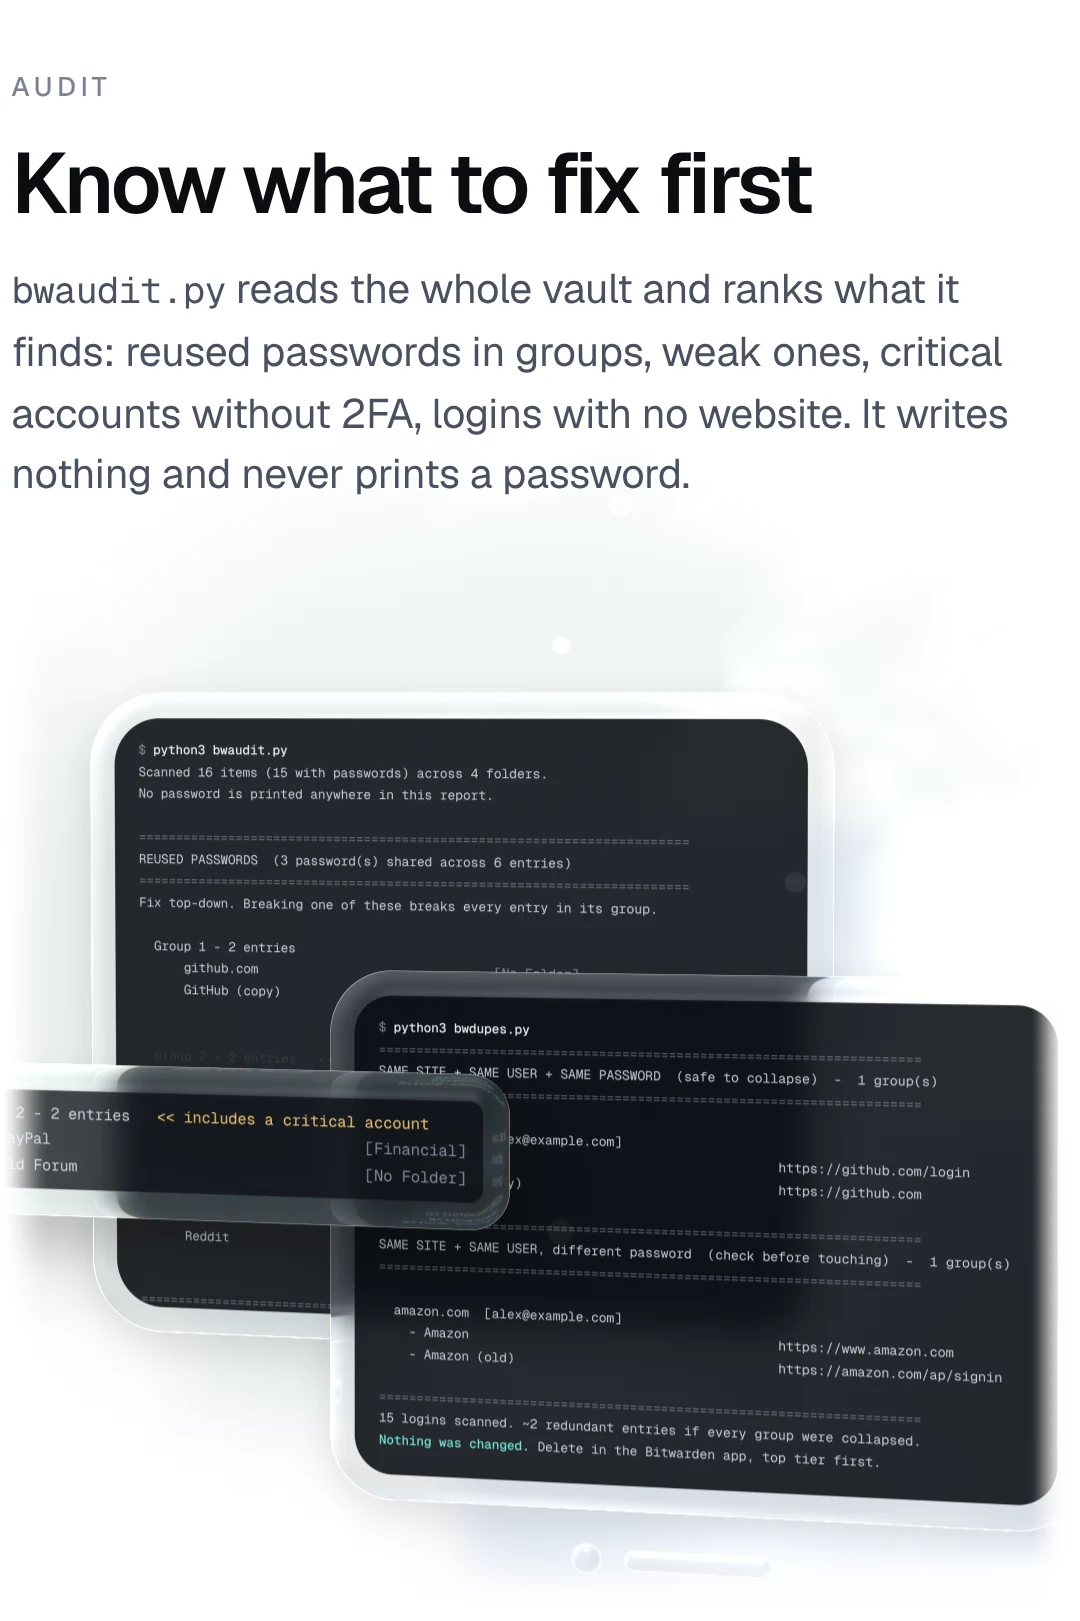
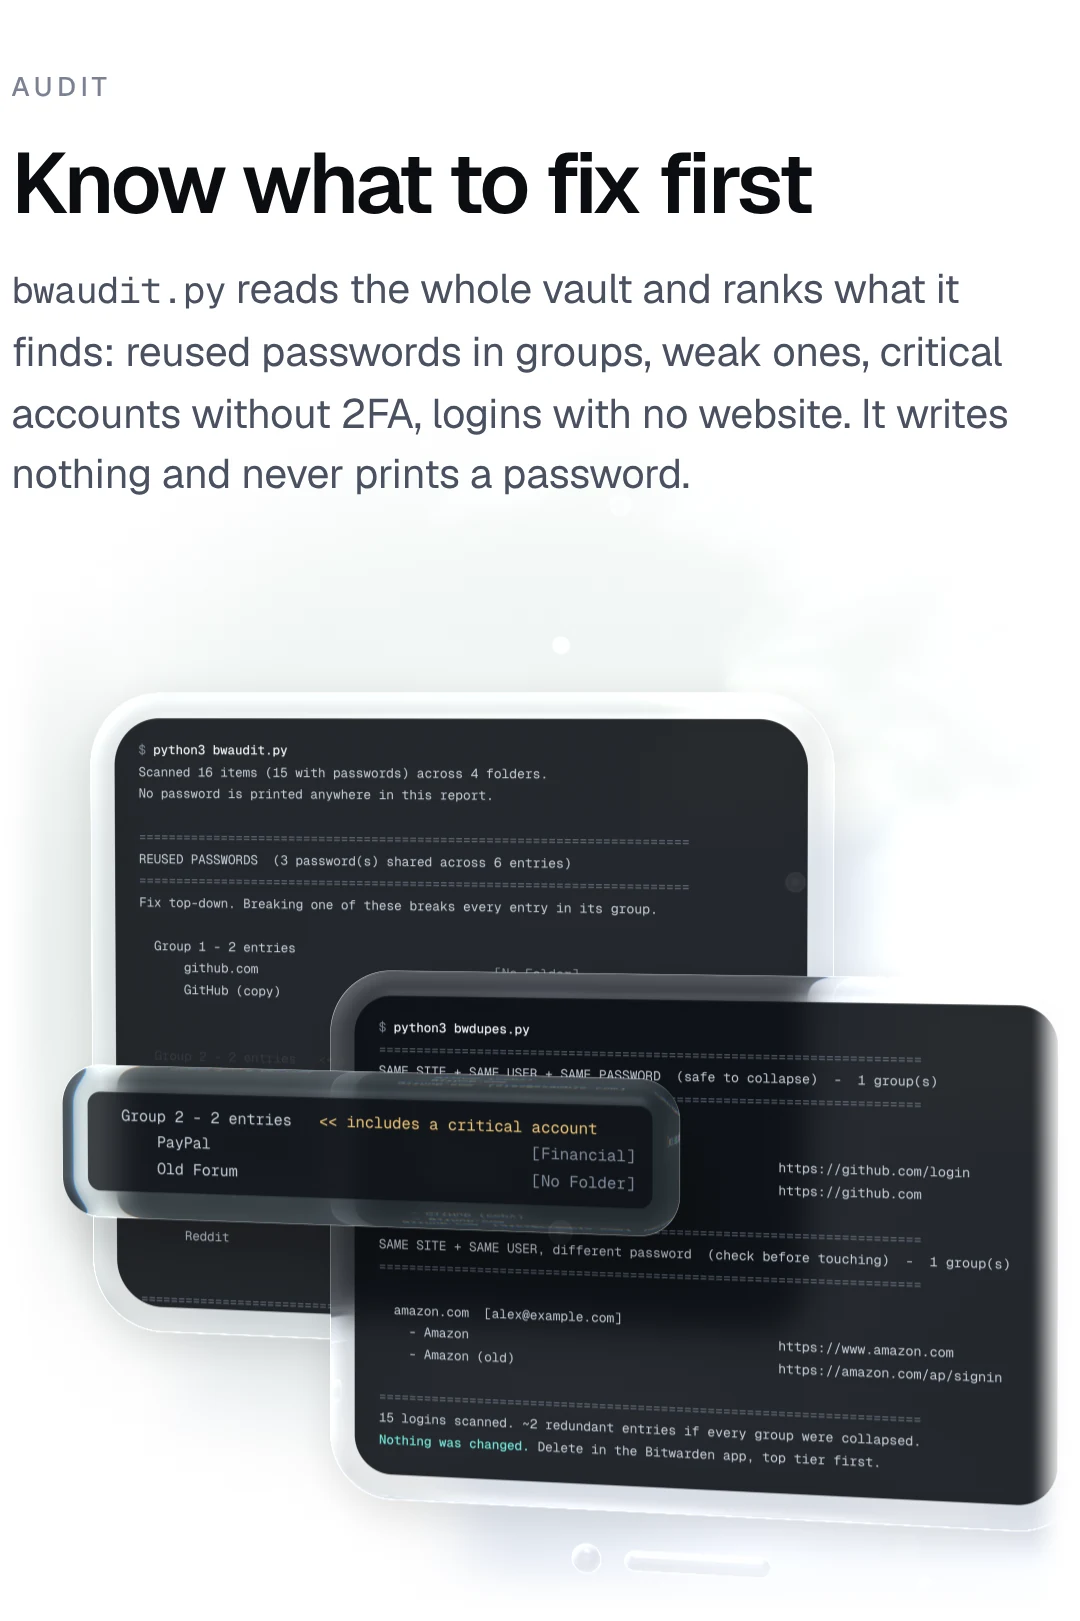
README: two phone images no longer cut off or collide
On a phone the lifted line of the audit image ran off the left edge
("Group 2" read as "2", "PayPal" as "ayPal"), and the checklist page of
the clean-up image started on top of the last line of its caption. The
audit line is shifted back into the frame, and the clean-up image is
40 px taller with its windows moved down by the same amount. The wide
images and every other phone image are unchanged.

Claude-Session: https://claude.ai/code/session_01HQfW8pkzqmESaZpf3GNiQv

Changed region(s): [[0.0, 0.6477, 0.6417, 0.802]]

diff --git a/docs/readme/src/glass/layouts.js b/docs/readme/src/glass/layouts.js
@@ -40,12 +40,12 @@ export function build(M) {
       return [
         term(M, 'audit', P.a, n, A, { crop: top, breathe: [8, 0.0] }),
         term(M, 'dupes', P.b, n, A, { breathe: [8, 0.45] }),
-        lift(M, 0, 'audit', 'group', n, A, { lift: 170, shift: [ph ? 0 : -22, 4] }),
+        lift(M, 0, 'audit', 'group', n, A, { lift: 170, shift: [ph ? 50 : -22, 4] }),
       ];
     },
   };
   const DEAD = {
-    kick: 'Clean-up', head: 'Find the dead weight',
+    kick: 'Clean-up', head: 'Find the dead weight', hp: 612, dyp: 10,
     body: '<code>bwdead.py</code> writes a ranked checklist with the evidence for every entry: exact duplicates first, then domains that no longer resolve. It deletes nothing; you tick through it in the Bitwarden app.',
     win: (n, ph) => {
       const P = ph ? { a: { x: 156, y: 394, w: 240, z: -90, rot: [2, -12, 0] }, b: { x: 232, y: 486, w: 280, z: 60, rot: [0, -12, 0] } }
